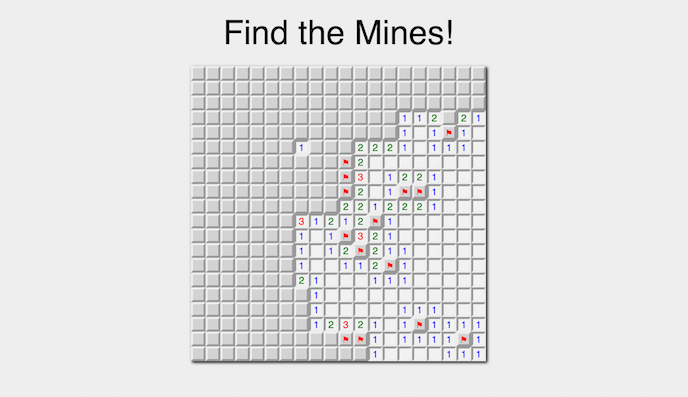
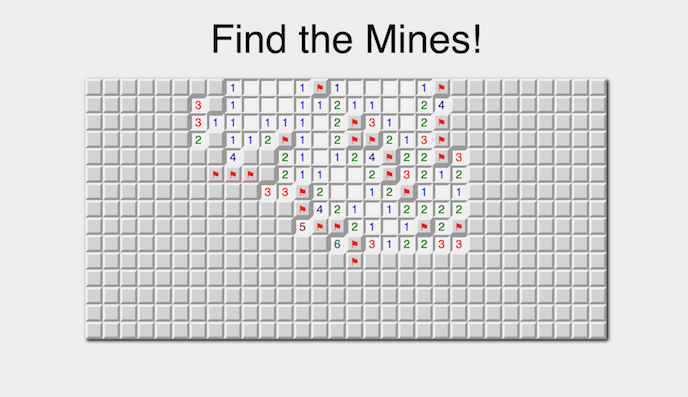
Update Minefinder.

diff --git a/minefinder/application.js b/minefinder/application.js
@@ -3,7 +3,9 @@ var M = Minefinder;
 var Game = React.createClass({
   getInitialState: function() {
     return {
-      board: new M.Board(this.props.gridSize, this.props.numBombs),
+      board: new M.Board(this.props.gridHeight,
+                         this.props.gridWidth,
+                         this.props.numBombs),
       gameOver: false,
       gameWon: false
     };
@@ -18,7 +20,9 @@ var Game = React.createClass({
   },
   resetGame: function() {
     this.setState({
-      board: new M.Board(this.props.gridSize, this.props.numBombs),
+      board: new M.Board(this.props.gridHeight,
+                         this.props.gridWidth,
+                         this.props.numBombs),
       gameOver: false,
       gameWon: false
     });
@@ -37,7 +41,7 @@ var Game = React.createClass({
           </div>
         </div>
         <Board board={this.state.board} gameOver={this.state.gameOver}
-          updateGame={this.updateGame} />
+          gameWon={this.state.gameWon} updateGame={this.updateGame} />
       </div>
     );
   }
@@ -46,15 +50,17 @@ var Game = React.createClass({
 var Board = React.createClass({
   render: function() {
       var tiles = this.props.board.grid.map(function(row, rowIdx) {
-        var gridSize = this.props.board.gridSize;
+        var gridHeight = this.props.board.gridHeight;
+        var gridWidth = this.props.board.gridWidth;
         return(
           <div className="row group">
             {row.map(function(tile, idx) {
-              var tileIdx = rowIdx * gridSize + idx;
+              var tileIdx = rowIdx * gridWidth + idx;
               return (
                 <Tile key={tileIdx} tile={tile}
                   updateGame={this.props.updateGame}
                   gameOver={this.props.gameOver}
+                  gameWon={this.props.gameWon}
                 />
               );
             }, this)}
@@ -77,12 +83,17 @@ var Tile = React.createClass({
     var content, tile = this.props.tile, className = "tile";
 
     if (this.props.gameOver && tile.bombed) {
-      content = "💣";
-      className += " bombed revealed";
+      if (this.props.gameWon) {
+        content = "💣";
+        className += " safebombed revealed";
+      } else {
+        content = "💥";
+        className += " bombed revealed";
+      }
     } else if (tile.explored) {
       className += " revealed";
       if (tile.bombed) {
-        content = "💣";
+        content = "💥";
         className += " bombed";
       } else {
         content = tile.adjacentBombCount().toString();

diff --git a/minefinder/minefinder.js b/minefinder/minefinder.js
@@ -67,8 +67,10 @@
     return false;
   };
 
-  var Board = window.Minefinder.Board = function (gridSize, numBombs) {
-    this.gridSize = gridSize;
+  var Board = window.Minefinder.Board =
+    function (gridHeight, gridWidth, numBombs) {
+    this.gridHeight = gridHeight;
+    this.gridWidth = gridWidth;
     this.grid = [];
     this.numBombs = numBombs;
     this.generateBoard();
@@ -76,9 +78,9 @@
   };
 
   Board.prototype.generateBoard = function () {
-    for (var i = 0; i < this.gridSize; i++) {
+    for (var i = 0; i < this.gridHeight; i++) {
       this.grid.push([]);
-      for (var j = 0; j < this.gridSize; j++) {
+      for (var j = 0; j < this.gridWidth; j++) {
         var tile = new Minefinder.Tile(this, [i, j]);
         this.grid[i].push(tile);
       }
@@ -87,16 +89,16 @@
 
   Board.prototype.onBoard = function (pos) {
     return (
-      pos[0] >= 0 && pos[0] < this.gridSize &&
-        pos[1] >= 0 && pos[1] < this.gridSize
+      pos[0] >= 0 && pos[0] < this.gridHeight &&
+        pos[1] >= 0 && pos[1] < this.gridWidth
     );
   };
 
   Board.prototype.plantBombs = function () {
     var totalPlantedBombs = 0;
     while (totalPlantedBombs < this.numBombs) {
-      var row = Math.floor(Math.random() * (this.gridSize - 1));
-      var col = Math.floor(Math.random() * (this.gridSize - 1));
+      var row = Math.floor(Math.random() * (this.gridHeight - 1));
+      var col = Math.floor(Math.random() * (this.gridWidth - 1));
 
       var tile = this.grid[row][col];
       if (!tile.bombed) {

diff --git a/minefinder/application.css b/minefinder/application.css
@@ -27,6 +27,11 @@ h1 {
   font-size: 48px;
 }
 
+button {
+  padding: 10px;
+  font-size: 16px;
+}
+
 .group {
   content: "";
   display: block;
@@ -64,8 +69,8 @@ h1 {
 }
 
 .game {
-  width: 420px;
-  height: 420px;
+  width: 630px;
+  height: 315px;
   margin: auto;
   /*border: 2px solid black;*/
   box-shadow: 2px 2px 5px #000;
@@ -92,7 +97,12 @@ h1 {
 }
 
 .bombed {
-  background: red;
+  font-size: 10px;
+  background: darkred;
+}
+
+.safebombed {
+  font-size: 10px;
 }
 
 .flagged {

diff --git a/minefinder/index.html b/minefinder/index.html
@@ -18,7 +18,7 @@
     <div id="game"></div>
 
     <script type="text/jsx">
-      ReactDOM.render(<Game gridSize={20} numBombs={50}/>, document.getElementById("game"))
+      ReactDOM.render(<Game gridHeight={15} gridWidth={30} numBombs={99}/>, document.getElementById("game"))
     </script>
   </body>
 </html>
